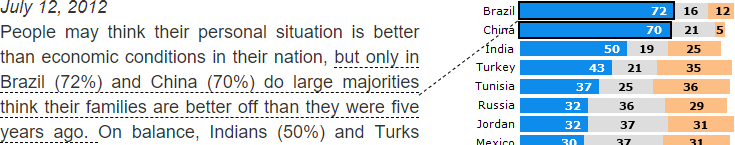
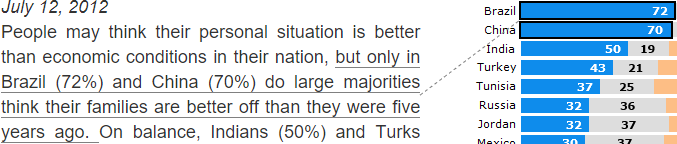
fixed final questionnaire images

diff --git a/application/frontend/templates/final_question.html b/application/frontend/templates/final_question.html
@@ -21,7 +21,7 @@
 				<img src="1.png" style="padding-bottom: 20px; padding-left: 25px; max-width: 500px;"><br>
 				<input type="radio" name="viz_pref" value="2"> solid grey text underline with dashed black link<br>
 				<img src="2.png"style="padding-bottom: 20px; padding-left: 25px; max-width: 500px;"><br>
-				<input type="radio" name="viz_pref" value="3"> solid grey text underline with dashed black link<br>
+				<input type="radio" name="viz_pref" value="3"> solid grey text underline with dashed grey link<br>
 				<img src="3.png"style="padding-bottom: 20px; padding-left: 25px; max-width: 500px;"><br>
 			</h4>
 
